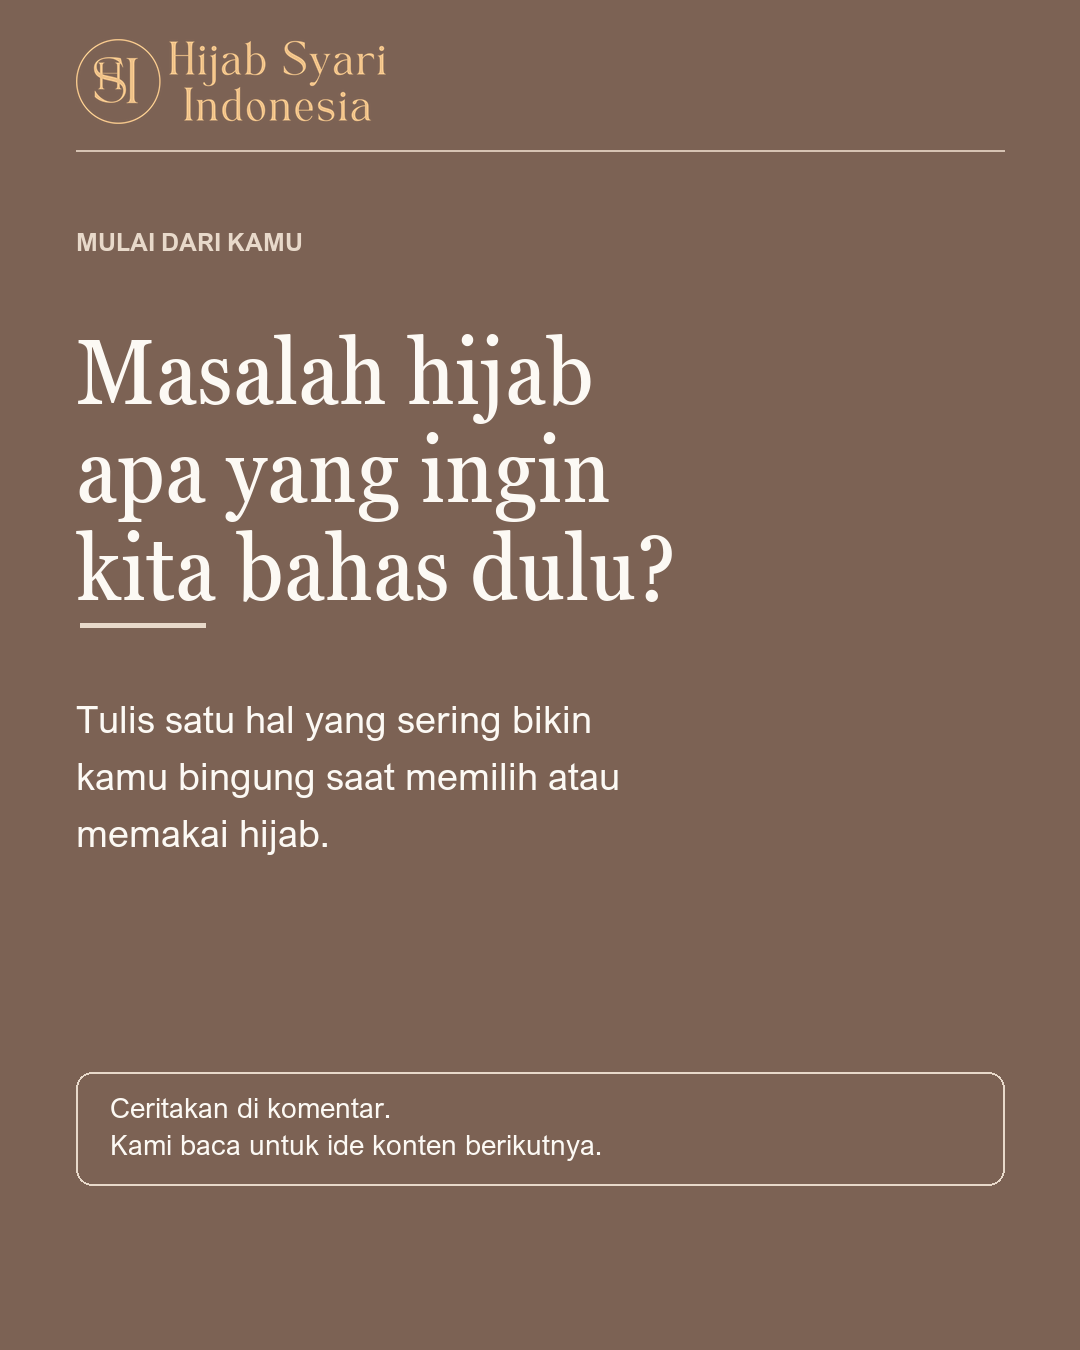
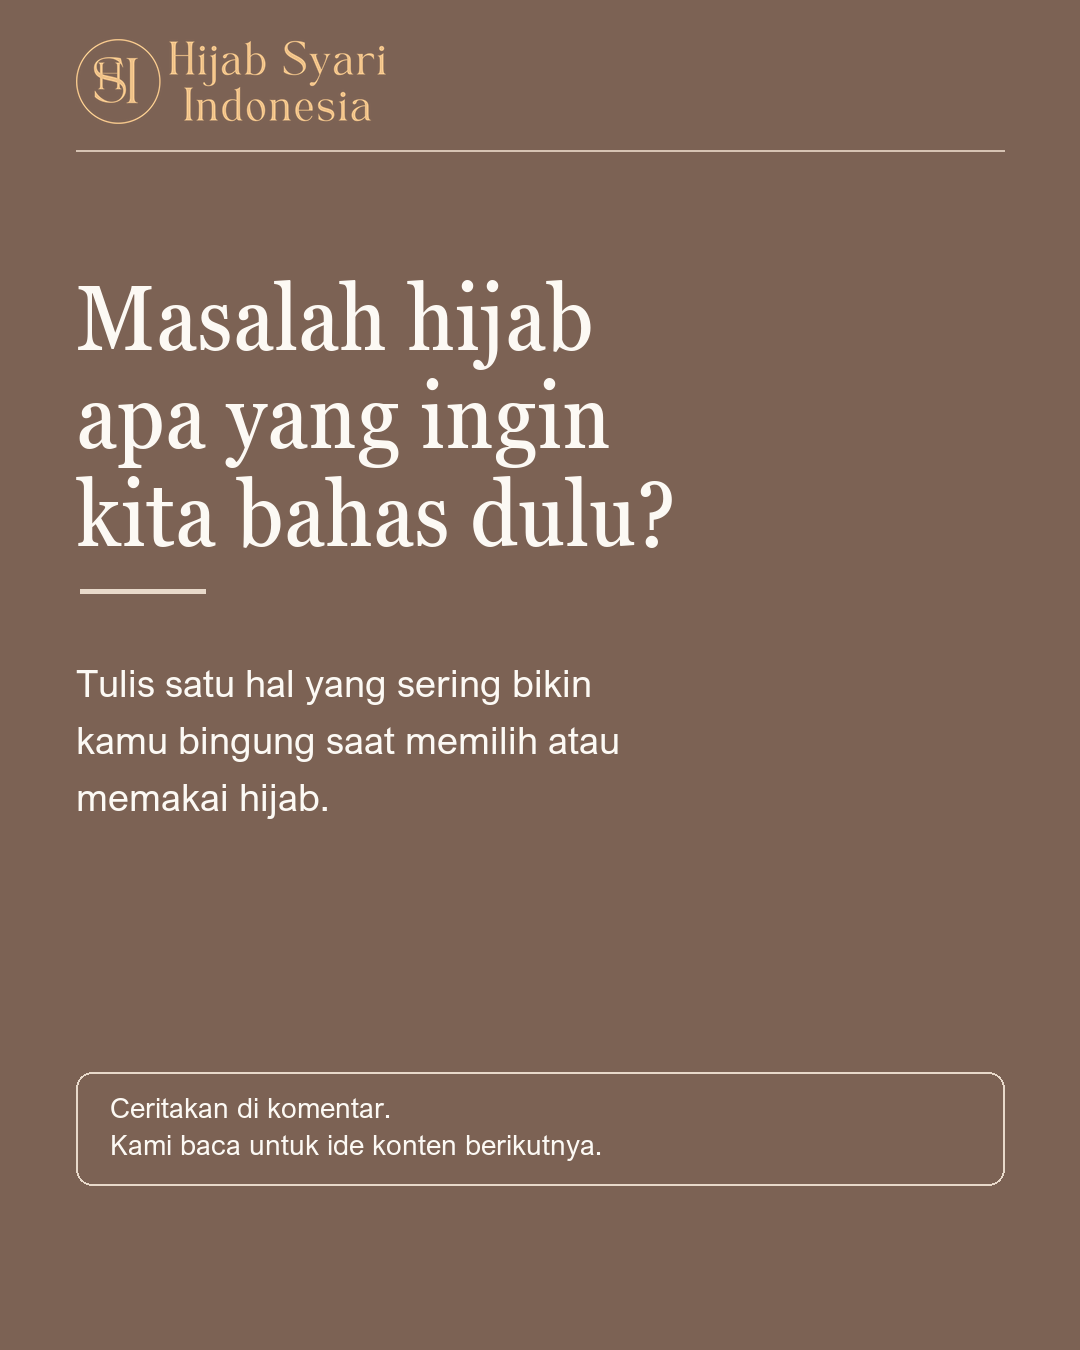
Remove category subtitles from content visuals

Changed region(s): [[0.0611, 0.1556, 0.6417, 0.4667], [0.0611, 0.4978, 0.5806, 0.6533]]

diff --git a/CONTENT/DAY-01/render.py b/CONTENT/DAY-01/render.py
@@ -22,13 +22,6 @@ def font(name, size):
 SERIF = "GeorgiaPro-CondRegular.ttf"
 SERIF_ITALIC = "GeorgiaPro-CondItalic.ttf"
 SANS = "ArialNova.ttf"
-SANS_BOLD = "ArialNova-Bold.ttf"
-
-
-def label(draw, text, x, y, color=TAUPE, size=25):
-    draw.text((x, y), text.upper(), font=font(SANS_BOLD, size), fill=color)
-
-
 def lines(draw, items, x, y, family, size, fill, leading):
     f = font(family, size)
     for item in items:
@@ -70,29 +63,28 @@ def cover():
     im = Image.alpha_composite(photo.convert("RGBA"), overlay).convert("RGB")
     d = ImageDraw.Draw(im)
     chrome(im, d, line_end=610)
-    label(d, "SELAMAT DATANG KEMBALI", 76, 330, TAUPE, 25)
-    lines(d, ["Halo, kita", "mulai lagi."], 76, 410, SERIF, 99, INK, 103)
-    d.line((80, 675, 178, 675), fill=TAUPE, width=5)
-    lines(d, ["Urusan hijab terasa lebih", "mudah, mulai hari ini."], 76, 720, SANS, 33, INK, 48)
+    lines(d, ["Halo, kita", "mulai lagi."], 76, 355, SERIF, 99, INK, 103)
+    d.line((80, 620, 178, 620), fill=TAUPE, width=5)
+    lines(d, ["Urusan hijab terasa lebih", "mudah, mulai hari ini."], 76, 665, SANS, 33, INK, 48)
     save(im, "01-cover.png")
 
 
-def standard(number, tag, heading, body, foot, dark=False):
+def standard(number, heading, body, foot, dark=False):
     im = Image.new("RGB", (1080, 1350), TAUPE if dark else CREAM)
     d = ImageDraw.Draw(im)
     chrome(im, d, dark)
     main = PAPER if dark else INK
     secondary = (232, 217, 202) if dark else MUTED
-    label(d, tag, 76, 226, secondary, 25)
-    lines(d, heading, 76, 319, SERIF, 92, main, 98)
-    d.line((80, 625, 205, 625), fill=secondary, width=5)
-    lines(d, body, 76, 695, SANS, 38, main, 57)
+    heading_bottom = lines(d, heading, 76, 265, SERIF, 92, main, 98)
+    rule_y = heading_bottom + 32
+    d.line((80, rule_y, 205, rule_y), fill=secondary, width=5)
+    lines(d, body, 76, rule_y + 68, SANS, 38, main, 57)
     d.rounded_rectangle((76, 1072, 1004, 1185), radius=16, outline=secondary, width=2)
     lines(d, foot, 110, 1090, SANS, 28, main, 37)
     save(im, f"{number:02d}-slide.png")
 
 
-def story(number, eyebrow, heading, body, footer, dark=False):
+def story(number, heading, body, footer, dark=False):
     im = Image.new("RGB", (1080, 1920), TAUPE if dark else CREAM)
     d = ImageDraw.Draw(im)
     main = PAPER if dark else INK
@@ -100,10 +92,10 @@ def story(number, eyebrow, heading, body, footer, dark=False):
     logo = brand_logo(dark, 350)
     im.paste(logo, (76, 64), logo)
     d.line((76, 190, 1004, 190), fill=secondary, width=2)
-    label(d, eyebrow, 76, 370, secondary, 28)
-    lines(d, heading, 76, 475, SERIF, 103, main, 114)
-    d.line((76, 860, 205, 860), fill=secondary, width=5)
-    lines(d, body, 76, 955, SANS, 43, main, 66)
+    heading_bottom = lines(d, heading, 76, 400, SERIF, 103, main, 114)
+    rule_y = heading_bottom + 35
+    d.line((76, rule_y, 205, rule_y), fill=secondary, width=5)
+    lines(d, body, 76, rule_y + 88, SANS, 43, main, 66)
     d.rounded_rectangle((76, 1450, 1004, 1650), radius=18, outline=secondary, width=3)
     lines(d, footer, 120, 1498, SANS, 34, main, 52)
     save(im, f"story-{number:02d}.png")
@@ -111,27 +103,27 @@ def story(number, eyebrow, heading, body, footer, dark=False):
 
 if __name__ == "__main__":
     cover()
-    standard(2, "KENAPA KEMBALI?", ["Karena hijab", "punya banyak", "cerita kecil."],
+    standard(2, ["Karena hijab", "punya banyak", "cerita kecil."],
              ["Ada pilihan warna, bahan, dan styling", "yang sering bikin kita berhenti", "sejenak sebelum berangkat."],
              ["Di sini, kita bahas dengan cara", "yang praktis dan mudah dicoba."])
-    standard(3, "HIJAB FIX", ["Masalah sehari-", "hari? Kita cari", "solusinya."],
+    standard(3, ["Masalah sehari-", "hari? Kita cari", "solusinya."],
              ["Hijab bergeser, kusut, atau terasa", "kurang nyaman? Kita uraikan sebab", "dan opsi yang bisa dicoba."],
              ["Tips akan fokus pada kebutuhan,", "bukan aturan gaya yang kaku."], dark=True)
-    standard(4, "COLOR LAB + HIJAB 101", ["Pilih warna", "dan bahan", "lebih yakin."],
+    standard(4, ["Pilih warna", "dan bahan", "lebih yakin."],
              ["Lihat perbandingan warna dengan", "outfit, kenali karakter bahan, lalu", "pilih yang cocok untuk aktivitasmu."],
              ["Simpan ide yang ingin kamu", "coba nanti."], dark=False)
-    standard(5, "INSPIRASI + KOMUNITAS", ["Inspirasi yang", "bisa jadi milikmu."],
+    standard(5, ["Inspirasi yang", "bisa jadi milikmu."],
              ["Bukan sekadar foto cantik. Kita", "akan berbagi ide look yang bisa", "diadaptasi dengan isi lemarimu."],
              ["Pilihan dan pertanyaanmu ikut", "membentuk topik berikutnya."], dark=False)
-    standard(6, "MULAI DARI KAMU", ["Masalah hijab", "apa yang ingin", "kita bahas dulu?"],
+    standard(6, ["Masalah hijab", "apa yang ingin", "kita bahas dulu?"],
              ["Tulis satu hal yang sering bikin", "kamu bingung saat memilih atau", "memakai hijab."],
              ["Ceritakan di komentar.", "Kami baca untuk ide konten berikutnya."], dark=True)
-    story(1, "KITA MULAI LAGI", ["Halo lagi,", "Hijab Syari", "Indonesia."],
+    story(1, ["Halo lagi,", "Hijab Syari", "Indonesia."],
           ["Mulai sekarang, kita berbagi", "tips hijab yang praktis,", "inspirasi, dan pilihan", "yang lebih mudah dipahami."],
           ["Lihat carousel terbaru", "di feed kami."], dark=False)
-    story(2, "PILIH TOPIK", ["Kamu ingin", "bahas apa", "lebih dulu?"],
+    story(2, ["Kamu ingin", "bahas apa", "lebih dulu?"],
           ["Warna hijab untuk outfit?", "Atau solusi hijab yang", "sering bergeser?"],
           ["Pilihanmu membantu kami", "menentukan bahasan pertama."], dark=True)
-    story(3, "CERITAKAN MASALAHMU", ["Pertanyaanmu", "bisa jadi topik", "berikutnya."],
+    story(3, ["Pertanyaanmu", "bisa jadi topik", "berikutnya."],
           ["Hal kecil soal hijab", "apa yang paling sering", "bikin kamu bingung?"],
           ["Tulis di kotak pertanyaan", "di bawah, ya."], dark=False)

diff --git a/CONTENT/DAY-01/COPYWRITING.md b/CONTENT/DAY-01/COPYWRITING.md
@@ -9,15 +9,11 @@
 
 ### Slide 1 — Cover
 
-**SELAMAT DATANG KEMBALI**
-
 Halo, kita mulai lagi.
 
 Urusan hijab terasa lebih mudah, mulai hari ini.
 
 ### Slide 2
-
-**KENAPA KEMBALI?**
 
 Karena hijab punya banyak cerita kecil.
 
@@ -27,8 +23,6 @@ Di sini, kita bahas dengan cara yang praktis dan mudah dicoba.
 
 ### Slide 3
 
-**HIJAB FIX**
-
 Masalah sehari-hari? Kita cari solusinya.
 
 Hijab bergeser, kusut, atau terasa kurang nyaman? Kita uraikan sebab dan opsi yang bisa dicoba.
@@ -36,8 +30,6 @@ Hijab bergeser, kusut, atau terasa kurang nyaman? Kita uraikan sebab dan opsi ya
 Tips akan fokus pada kebutuhan, bukan aturan gaya yang kaku.
 
 ### Slide 4
-
-**COLOR LAB + HIJAB 101**
 
 Pilih warna dan bahan lebih yakin.
 
@@ -47,8 +39,6 @@ Simpan ide yang ingin kamu coba nanti.
 
 ### Slide 5
 
-**INSPIRASI + KOMUNITAS**
-
 Inspirasi yang bisa jadi milikmu.
 
 Bukan sekadar foto cantik. Kita akan berbagi ide look yang bisa diadaptasi dengan isi lemarimu.
@@ -56,8 +46,6 @@ Bukan sekadar foto cantik. Kita akan berbagi ide look yang bisa diadaptasi denga
 Pilihan dan pertanyaanmu ikut membentuk topik berikutnya.
 
 ### Slide 6 — CTA
-
-**MULAI DARI KAMU**
 
 Masalah hijab apa yang ingin kita bahas dulu?
 
@@ -79,8 +67,6 @@ Kita mulai dari yang paling dekat dengan keseharianmu. **Hal soal hijab apa yang
 
 ### Story 1
 
-**KITA MULAI LAGI**
-
 Halo lagi, Hijab Syari Indonesia.
 
 Mulai sekarang, kita berbagi tips hijab yang praktis, inspirasi, dan pilihan yang lebih mudah dipahami.
@@ -88,8 +74,6 @@ Mulai sekarang, kita berbagi tips hijab yang praktis, inspirasi, dan pilihan yan
 Lihat carousel terbaru di feed kami.
 
 ### Story 2
-
-**PILIH TOPIK**
 
 Kamu ingin bahas apa lebih dulu?
 
@@ -100,8 +84,6 @@ Pilihanmu membantu kami menentukan bahasan pertama.
 **Stiker Poll saat unggah:** `WARNA` / `HIJAB BERGESER`
 
 ### Story 3
-
-**CERITAKAN MASALAHMU**
 
 Pertanyaanmu bisa jadi topik berikutnya.
 

diff --git a/CONTENT/DAY-01/DAY-01.md b/CONTENT/DAY-01/DAY-01.md
@@ -38,6 +38,7 @@
 - Visual: editorial bersih, hangat, krem, taupe, tipografi jelas pada layar ponsel.
 - Cover memakai visualisasi AI perempuan Muslim dewasa berpenampilan Indonesia. Visual tersebut bukan testimoni atau dokumentasi kejadian nyata.
 - Header semua visual memakai logo transparan asli dari `Logo Hijab Syari Transparan.png` di root repo. Bentuk logo dipertahankan; warnanya dibuat gelap di latar terang dan emas muda di latar gelap agar terbaca tanpa bidang latar tambahan.
+- Judul utama tampil langsung di bawah area logo; tidak ada label kategori, nama series, atau subjudul kecil di atasnya. Metadata seperti pillar tetap disimpan di dokumen produksi, bukan dicetak pada gambar.
 - Slide 2–6 berupa desain editorial tipografis agar pesannya mudah dibaca. Tidak ada klaim produk atau hasil pemakaian. Bagian bawah seluruh visual dibiarkan bersih tanpa label produksi atau nomor urut.
 - File sumber desain: [render.py](render.py). Foto sumber: [editorial-photo.png](assets/editorial-photo.png).
 - **Prompt foto final (imagegen built-in):** Adult Indonesian Muslim woman in a taupe hijab and cream modest outfit, waist-up, minimal warm cream studio, soft daylight, realistic skin and textile, subject on right, generous negative space on left, clean editorial photography, no text, logo, watermark, or visible hair.

diff --git a/PROMPT_LIBRARY.md b/PROMPT_LIBRARY.md
@@ -109,6 +109,8 @@ Slides: [SLIDE CONTENT]
 
 The cover must communicate the benefit within 2–3 seconds. Each slide should have one dominant message. Use editorial hijab photography/visualization where useful. Avoid clutter, tiny text, generic Canva look, excessive decorative elements, fake logos, random gradients, and obvious AI aesthetics.
 
+Final visual rule: show the brand logo and the main headline directly. Do not print a small category, pillar, series, or production subtitle above the headline (for example “Hijab Fix” or “Color Lab + Hijab 101”) unless the user explicitly requests it. Keep those labels only in the production plan.
+
 ---
 
 ## 11. CAPTION WRITER

diff --git a/CURRENT_STATE.md b/CURRENT_STATE.md
@@ -1,7 +1,7 @@
 # CURRENT STATE — Hijab Syari Indonesia
 
 **Document type:** Live Project State / Handoff  
-**State version:** 0.02  
+**State version:** 0.03  
 **Updated:** 24 September 2026  
 **Current phase:** PRE-LAUNCH → REACTIVATE  
 **Current day:** Day 0  
@@ -91,6 +91,7 @@ Direction:
 - cream/white/neutral-friendly compositions;
 - strong hierarchy;
 - minimal cover text;
+- no small category/series/production label above the main headline on final carousel or Stories visuals; keep that metadata in the production files;
 - mobile-first;
 - consistent model/look where comparison requires consistency.
 

diff --git a/CHANGELOG.md b/CHANGELOG.md
@@ -76,6 +76,14 @@ Project initialized at Day 0. No post-reactivation analytics baseline has been e
 
 ---
 
+## [1.0.4] — 2026-09-24
+
+### Changed
+- Per user direction, removed every small category/series/production subtitle above the main headline from Day 1 carousel and Stories visuals, then rebalanced headline spacing.
+- Updated `COPYWRITING.md`, `CURRENT_STATE.md`, `CONTENT_SYSTEM.md`, and `PROMPT_LIBRARY.md` so future content keeps these labels as internal metadata rather than printing them on final images.
+
+---
+
 ## CHANGE ENTRY TEMPLATE
 
 ## [X.Y.Z] — YYYY-MM-DD

diff --git a/CONTENT_SYSTEM.md b/CONTENT_SYSTEM.md
@@ -418,6 +418,7 @@ Before publish:
 ### Visual
 - readable on phone?
 - consistent?
+- no small category, pillar, series, or production label above the main headline on final carousel/Stories assets? Keep these labels in planning metadata unless the user explicitly asks to display one.
 - AI anatomy/fabric correct?
 - no fake text/logo?
 - modest and appropriate?
